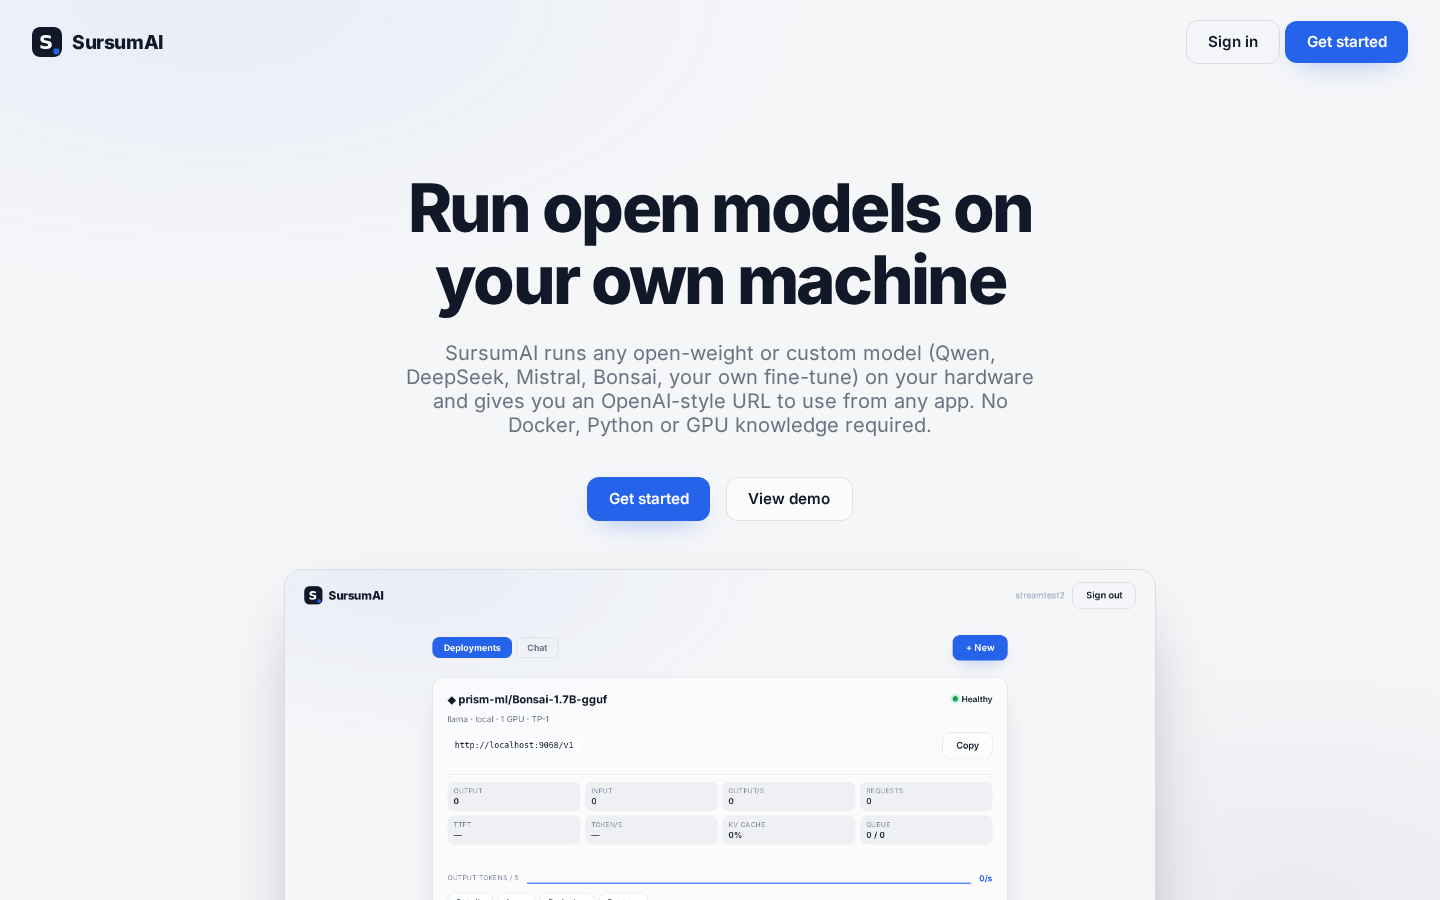
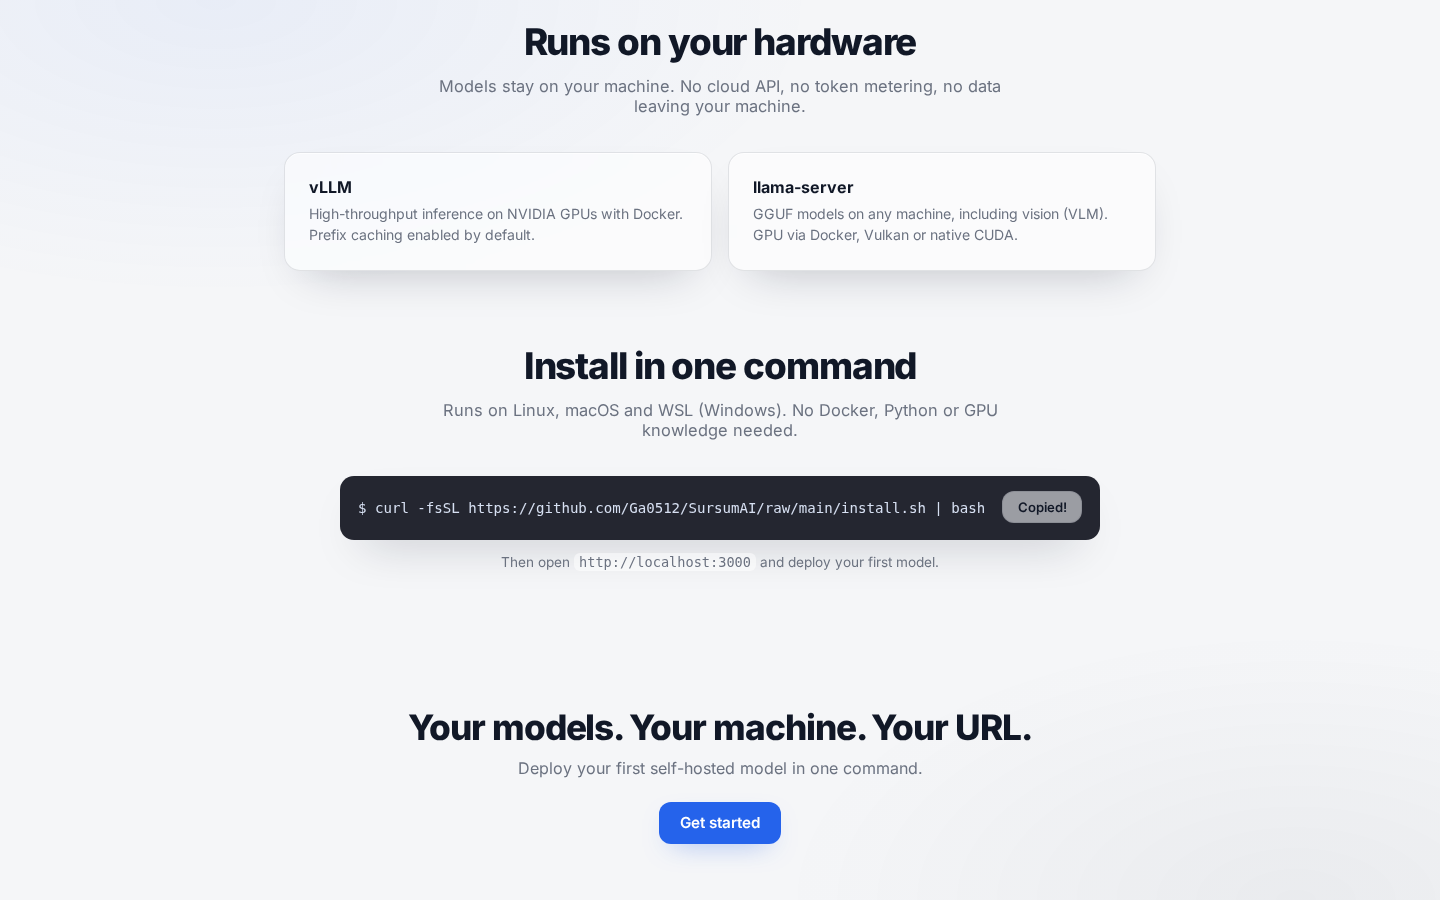
Landing: secao de instalacao com comando curl + botao copiar (estilo Ollama/opencode.ai)

diff --git a/web/style.css b/web/style.css
@@ -202,6 +202,24 @@ body {
 .landing-cta h2 { font-size: clamp(1.6rem, 3.5vw, 2.2rem); font-weight: 800; letter-spacing: -0.03em; margin-bottom: 10px; }
 .landing-cta p { color: var(--text-soft); margin-bottom: 24px; }
 
+.landing-install { max-width: 920px; margin: 72px auto 0; padding: 0 24px; text-align: center; }
+.landing-install h2 { font-size: clamp(1.7rem, 3.5vw, 2.3rem); font-weight: 800; letter-spacing: -0.03em; margin-bottom: 12px; }
+.install-box {
+  display: flex; align-items: center; gap: 12px;
+  background: rgba(17, 20, 30, 0.92); border-radius: 14px;
+  padding: 16px 18px; max-width: 760px; margin: 0 auto 14px;
+  box-shadow: 0 20px 48px -24px rgba(15, 23, 42, 0.4);
+}
+.install-cmd {
+  flex: 1; text-align: left;
+  font-family: ui-monospace, SFMono-Regular, Menlo, monospace;
+  font-size: 0.88rem; color: #d7e0f2;
+  overflow-x: auto; white-space: nowrap;
+}
+.install-copy { flex: none; font-size: 0.82rem; padding: 0.55em 1.1em; }
+.install-note { font-size: 0.85rem; color: var(--text-soft); }
+.install-note code { font-family: ui-monospace, monospace; background: rgba(255,255,255,0.5); padding: 1px 5px; border-radius: 6px; }
+
 /* --- auth card --- */
 .auth-wrap { min-height: 80vh; display: grid; place-items: center; padding: 24px; }
 .auth-card { width: 100%; max-width: 420px; padding: 40px; text-align: center; }

diff --git a/web/app.js b/web/app.js
@@ -104,6 +104,30 @@ function toast(msg) {
   setTimeout(() => t.classList.remove("show"), 2500);
 }
 
+const INSTALL_CMD = "curl -fsSL https://github.com/Ga0512/SursumAI/raw/main/install.sh | bash";
+
+function copyInstall() {
+  const btn = document.querySelector(".install-copy");
+  const done = () => {
+    if (btn) btn.textContent = "Copied!";
+    setTimeout(() => { if (btn) btn.textContent = "Copy"; }, 2000);
+  };
+  if (navigator.clipboard && navigator.clipboard.writeText) {
+    navigator.clipboard.writeText(INSTALL_CMD).then(done).catch(() => fallbackCopy(done));
+  } else {
+    fallbackCopy(done);
+  }
+}
+
+function fallbackCopy(done) {
+  const ta = document.createElement("textarea");
+  ta.value = INSTALL_CMD;
+  document.body.appendChild(ta);
+  ta.select();
+  try { document.execCommand("copy"); done(); } catch {}
+  document.body.removeChild(ta);
+}
+
 /* ---- model provider picker (Bedrock-style) ---- */
 const PROVIDERS = {
   qwen: {

diff --git a/web/index.html b/web/index.html
@@ -98,6 +98,16 @@
       </div>
     </div>
 
+    <div class="landing-install">
+      <h2>Install in one command</h2>
+      <p class="landing-sub">Runs on Linux, macOS and WSL (Windows). No Docker, Python or GPU knowledge needed.</p>
+      <div class="install-box">
+        <div class="install-cmd">$ curl -fsSL https://github.com/Ga0512/SursumAI/raw/main/install.sh | bash</div>
+        <button class="btn install-copy" onclick="copyInstall()">Copy</button>
+      </div>
+      <p class="install-note">Then open <code>http://localhost:3000</code> and deploy your first model.</p>
+    </div>
+
     <div class="landing-cta">
       <h2>Your models. Your machine. Your URL.</h2>
       <p>Deploy your first self-hosted model in one command.</p>
